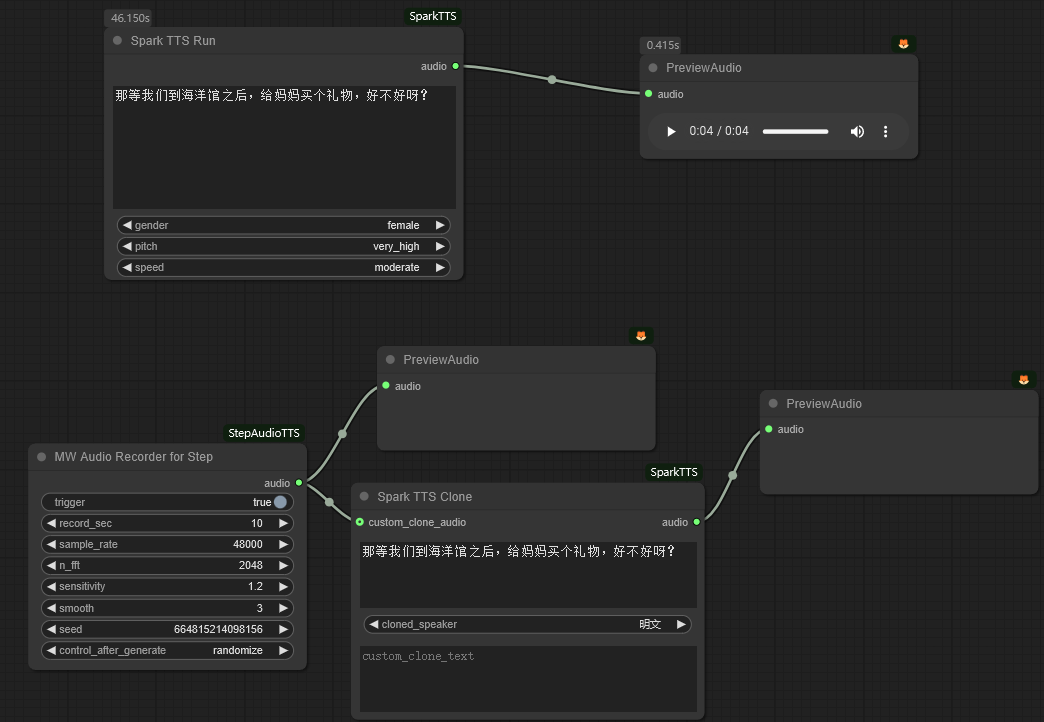
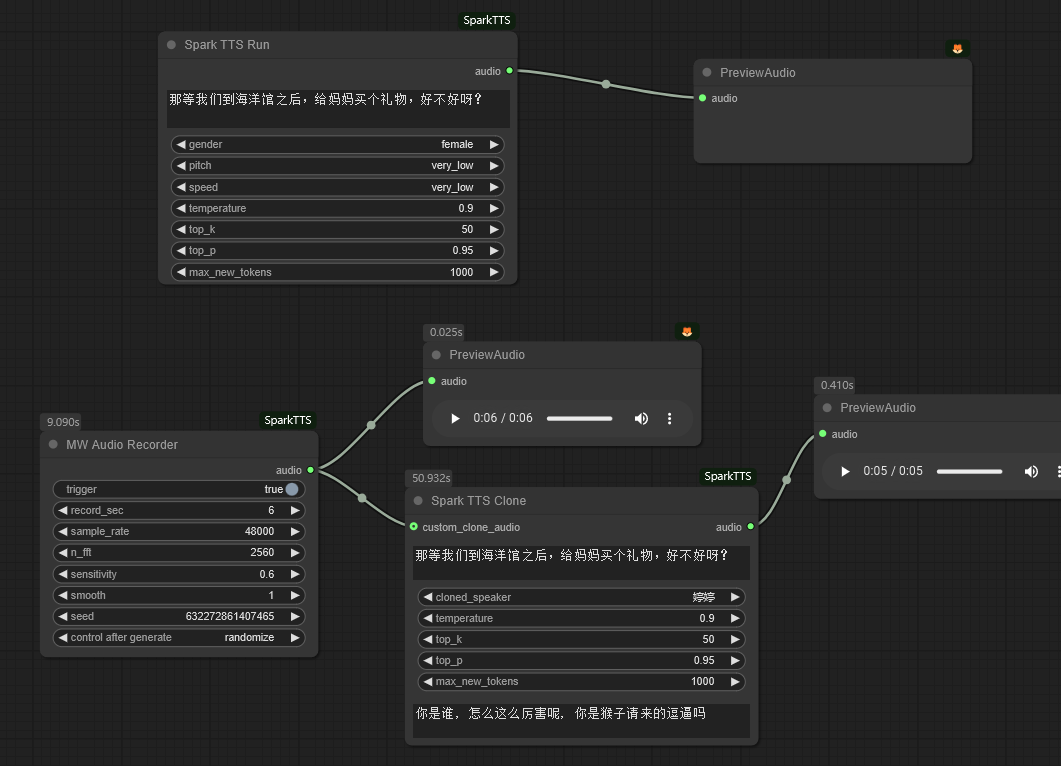
Add adjustable parameters

diff --git a/SparkTTSNode.py b/SparkTTSNode.py
@@ -371,10 +371,10 @@ class SparkTTSClone:
             "required": {
                 "text": ("STRING", {"default": "", "multiline": True}),
                 "cloned_speaker": (speakers, {"default": "婷婷", "tooltip": "Cloned speaker already defined in the JSON file. If you choose `custom_clone_audio`, it will be invalid"}),
-                # "temperature": ("FLOAT", {"default": 0.8, "min": 0, "max": 1, "step": 0.1}),
-                # "top_k": ("INT", {"default": 50, "min": 0}),
-                # "top_p": ("FLOAT", {"default": 0.95, "min": 0, "max": 1, "step": 0.01}),
-                # "max_new_tokens": ("INT", {"default": 3000, "min": 500}),
+                "temperature": ("FLOAT", {"default": 0.8, "min": 0, "max": 1, "step": 0.1}),
+                "top_k": ("INT", {"default": 50, "min": 0}),
+                "top_p": ("FLOAT", {"default": 0.95, "min": 0, "max": 1, "step": 0.01}),
+                "max_new_tokens": ("INT", {"default": 3000, "min": 500}),
                 # "seed": ("INT", {"default": 0, "min": 0, "max": 0xffffffffffffffff}),
             },
             "optional": {
